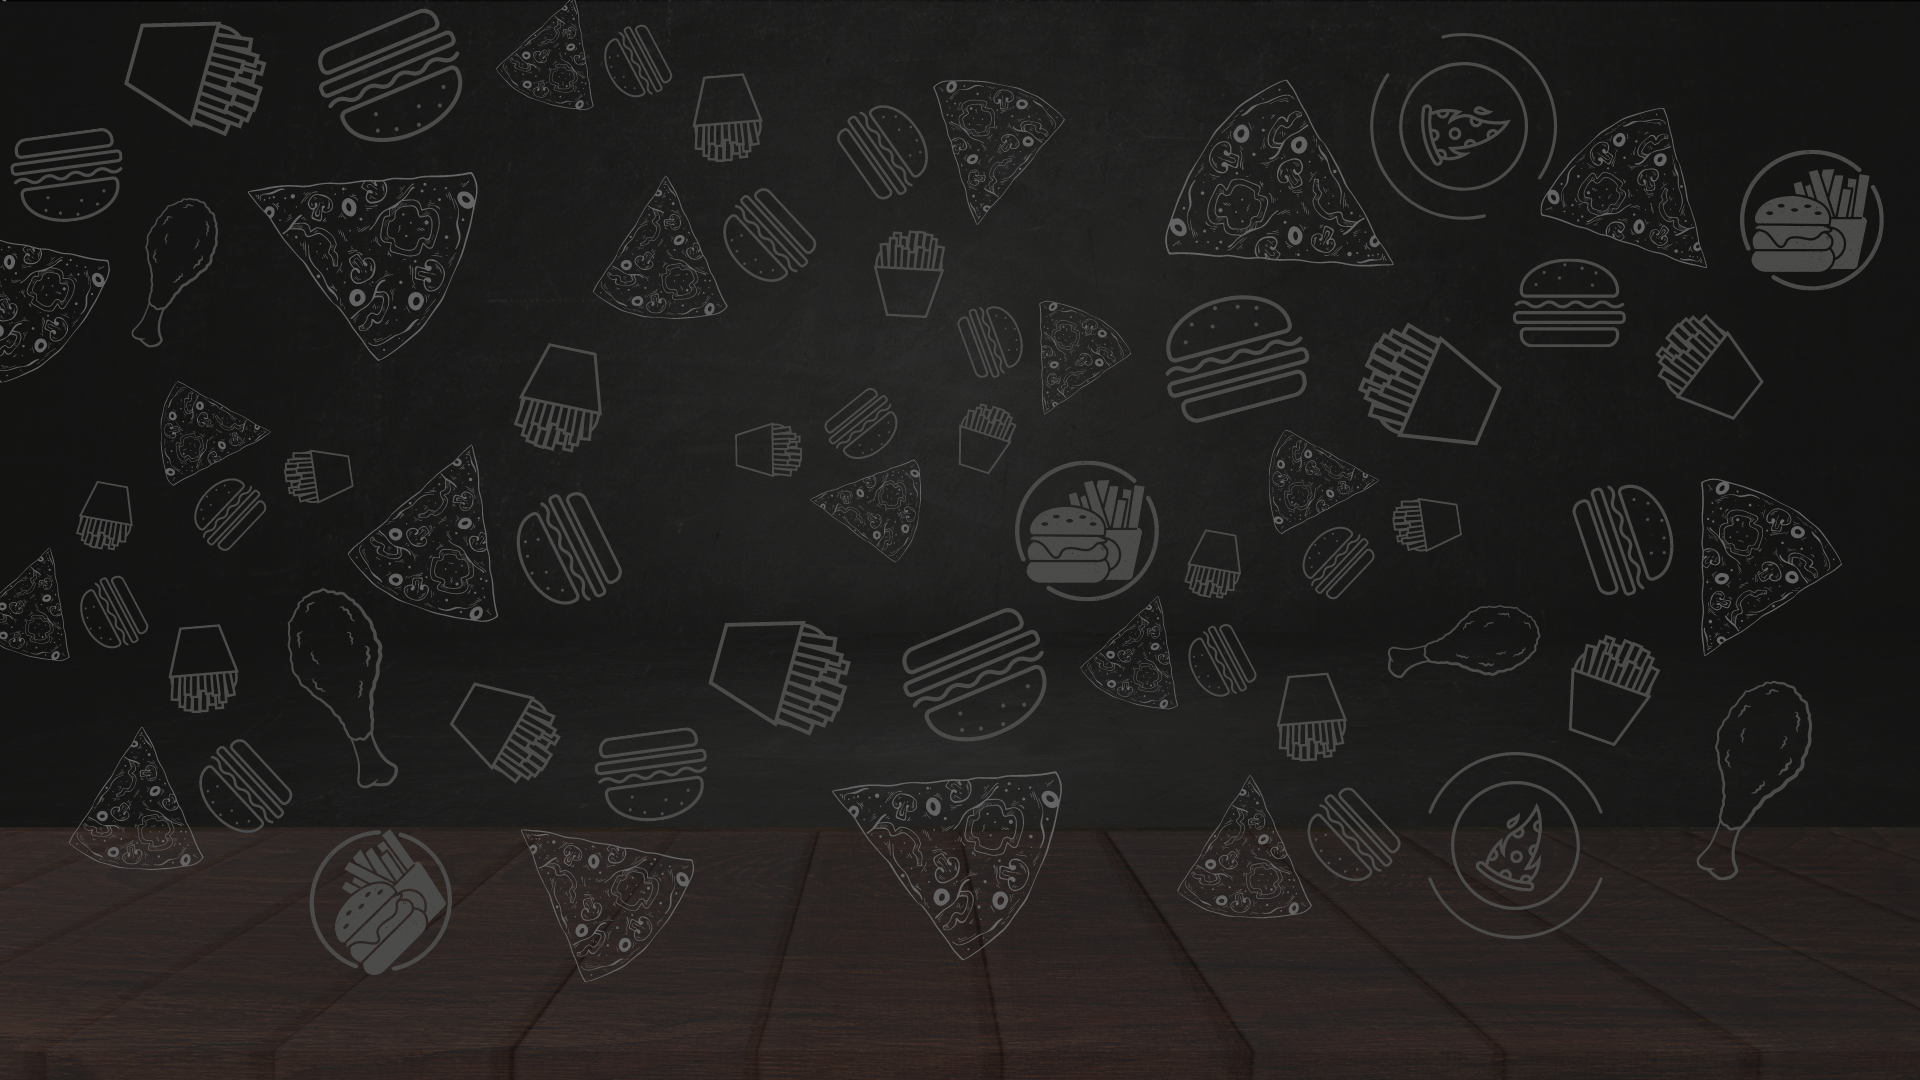
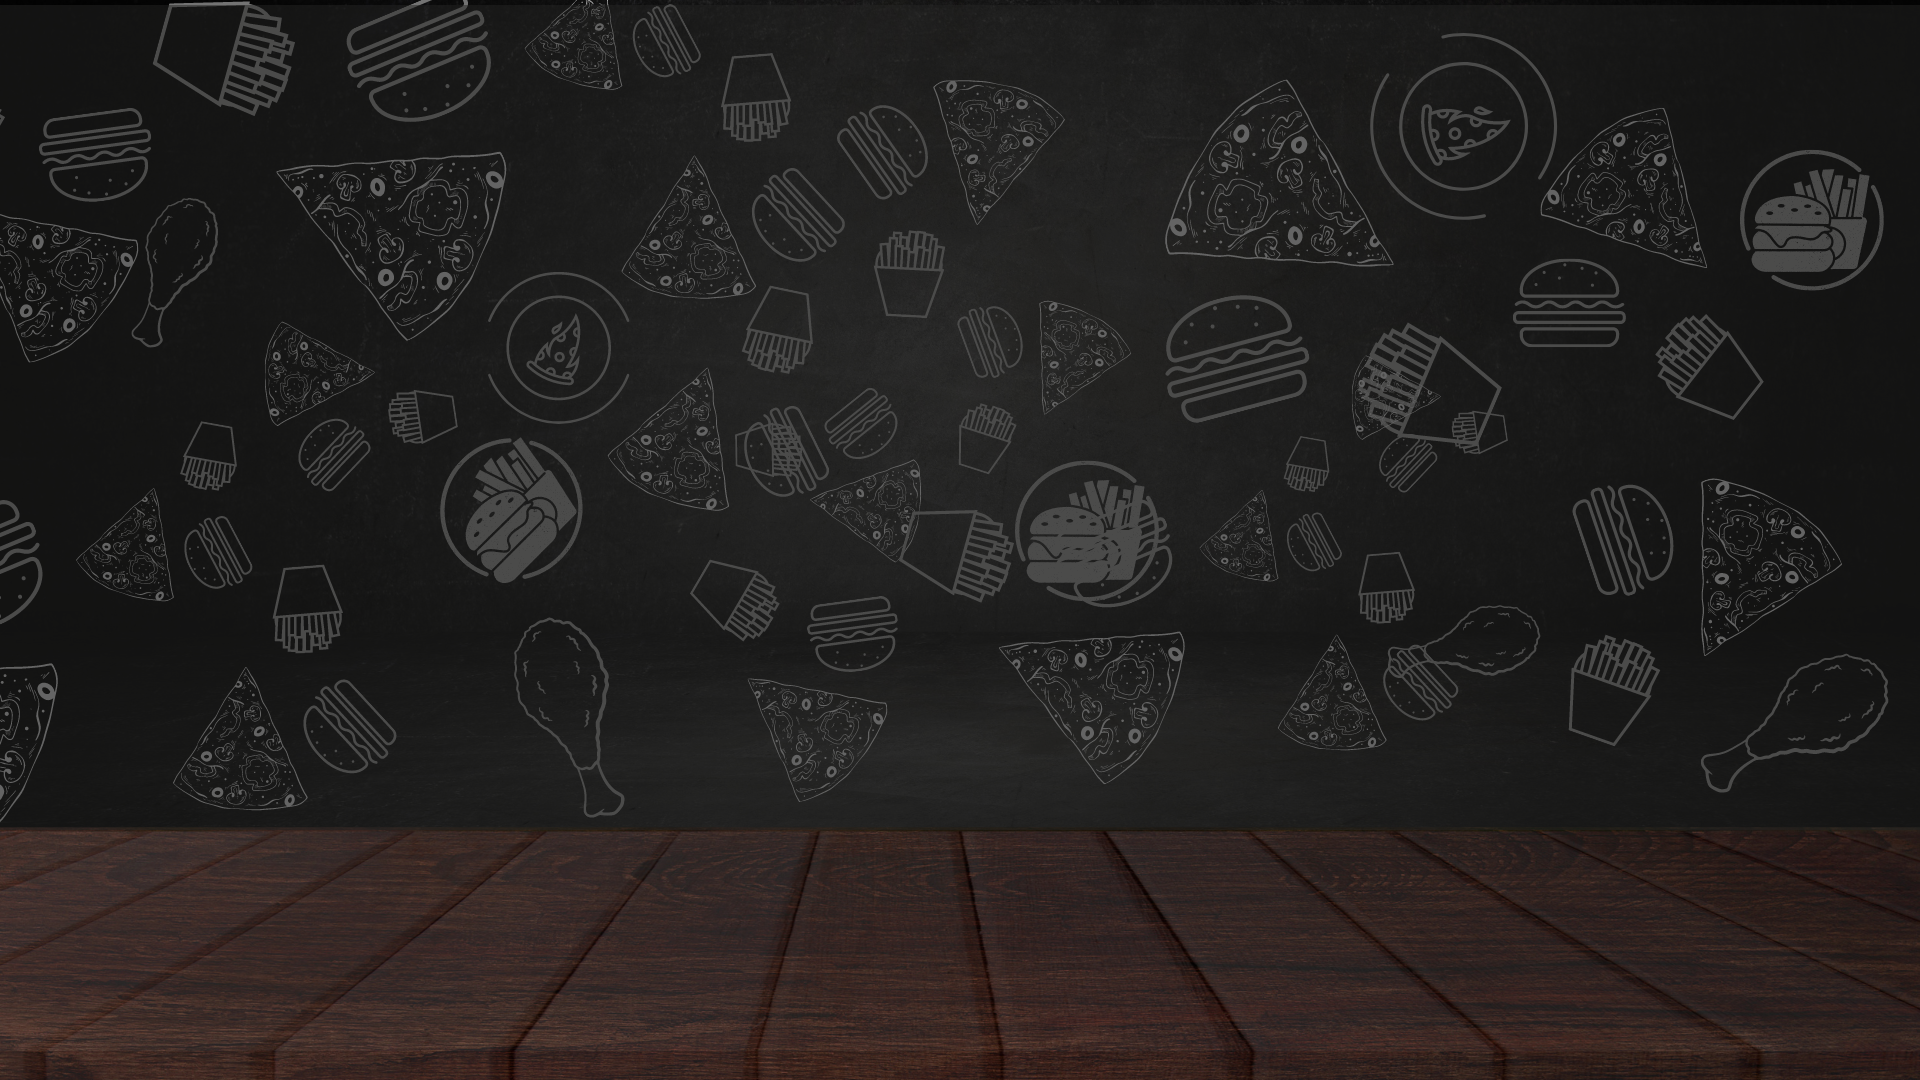
sidebar adicionado

diff --git a/src/App.js b/src/App.js
@@ -7,6 +7,8 @@ import * as C from './AppStyled';
 import HomeScreen from './pages/HomeScreen';
 import Tela2Screen from './pages/Tela2Screen';
 import { MenuItem } from './components';
+import { PrivateRoute } from './components/PrivateRoute';
+import { Cart } from './components/Cart';
 
 const App = () => {
     const name = useSelector(state => state.user.name);
@@ -26,14 +28,22 @@ const App = () => {
                         <Route exact path="/">
                             <HomeScreen />
                         </Route>
+
+                        <PrivateRoute exact path="/orders">
+                            <div>Tela de pedidos</div>
+                        </PrivateRoute>
+
+                        <PrivateRoute exact path="/profile">
+                            <div>Tela de perfil</div>
+                        </PrivateRoute>
+
                         <Route path="/tela2/:nome">
                             <Tela2Screen />
                         </Route>
                     </Switch>
                 </C.PageBody>
+                <Cart />
             </C.Container>
-            <h1>Oi, {name}</h1>
-
         </BrowserRouter>
     );
 }

diff --git a/src/AppStyled.js b/src/AppStyled.js
@@ -3,11 +3,12 @@ import styled from "styled-components";
 export const Container = styled.div`
     display: flex;
     min-height: 100vh;
-    background-image: url(/assets/bg.png);
 `;
 
 export const Menu = styled.div`
     display: flex;
+    justify-content: center;
+    align-items: center;
     background-color: #000000;
     width: 80px;
     flex-direction: column;
@@ -15,6 +16,9 @@ export const Menu = styled.div`
 
 export const PageBody = styled.div`
     display: flex;
-    background-color: #ccc;
+    background-color: #000000;
+    background-image: url(/assets/bg.png);
+    background-size: cover;
+    background-position: center;
     flex: 1;
 `;

diff --git a/src/components/Cart/styles.js b/src/components/Cart/styles.js
@@ -1,0 +1,32 @@
+import styled from "styled-components";
+
+export const CartArea = styled.div`
+    background-color: #000;
+    border-top-left-radius: 8px;
+    border-top-right-radius: 8px;
+    position: fixed;
+    bottom: 0;
+    right: 30px;
+`;
+
+export const CartHeader = styled.div`
+    width: 290px;
+    height: 50px;  
+    display: flex;  
+    align-items: center;
+    cursor: pointer;
+`;
+
+export const CartIcon = styled.img`
+    width: 24px;
+    height: auto;
+    margin-left: 10px;
+    margin-right: 10px;
+`;
+
+export const CartText = styled.div`
+    color: #fff;
+    font-size: 16px;
+`;
+
+export const CartBody = styled.div``;

diff --git a/src/components/index.js b/src/components/index.js
@@ -1,9 +1,21 @@
 import React from 'react';
+import { useHistory, useLocation} from 'react-router-dom';
 import * as C from './styles';
 
 export const MenuItem = ({link, icon}) => {
+
+    const history = useHistory();
+    const location = useLocation();
+
+    let isActive = location.pathname === link;
+
+    const handleLinkClick = (e) => {
+        e.preventDefault();
+        history.push(link);
+
+    }
     return(
-        <C.LinkArea href={link}>
+        <C.LinkArea active={isActive} href={link} onClick={handleLinkClick}>
             <C.LinkIcon src={icon}/>
         </C.LinkArea>
     );

diff --git a/src/components/PrivateRoute.js b/src/components/PrivateRoute.js
@@ -1,0 +1,16 @@
+import React from "react";
+import { Route, useHistory } from "react-router-dom";
+import { useSelector } from "react-redux";
+
+export const PrivateRoute = ({children, ...rest }) => {
+    const history = useHistory();
+    const token = useSelector(state => state.user.token);
+
+    if(!token || token === ''){
+        history.push('/login');
+        return null;
+    }
+    return(
+        <Route {...rest}>{children}</Route>
+    );
+}

diff --git a/src/components/Cart/index.js b/src/components/Cart/index.js
@@ -1,0 +1,16 @@
+import React from 'react';
+import * as C from './styles';
+
+export const Cart = () => {
+    return(
+        <C.CartArea>
+            <C.CartHeader>
+                <C.CartIcon src="/assets/cart.png"/>
+                <C.CartText>Meu carrinho (x)</C.CartText>
+            </C.CartHeader>
+            <C.CartBody>
+                
+            </C.CartBody>
+        </C.CartArea>
+    );
+}

diff --git a/src/reducers/UserReducer.js b/src/reducers/UserReducer.js
@@ -1,9 +1,15 @@
 const initialState = {
+    token: '',
     name: 'Teste'
 };
 
 export default (state = initialState, action) => {
+    
     switch(action.type) {
+        case 'SET_TOKEN':
+            return {...state, token: action.payload.token};
+        break;
+
         case 'SET_NAME':
             return {...state, name: action.payload.name};
         break;

diff --git a/src/components/styles.js b/src/components/styles.js
@@ -8,6 +8,12 @@ export const LinkArea = styled.a`
     height: 60px;
     border-radius: 8px;
     margin-bottom: 10px;
+    background-color: ${props=>props.active ? '#2e211e' : 'transparent'};;
+    transition: all 0.4s easy;
+
+    &:hover{
+        opacity: 0.8;
+    }
 `;
 
 export const LinkIcon = styled.img`

diff --git a/src/store.js b/src/store.js
@@ -6,7 +6,8 @@ import rootReducer from './reducers';
 
 const persistConfig = {
     key: 'root',
-    storage
+    storage,
+    whiteList: ['user']
 };
 
 const persistedReducer = persistReducer(persistConfig, rootReducer);
